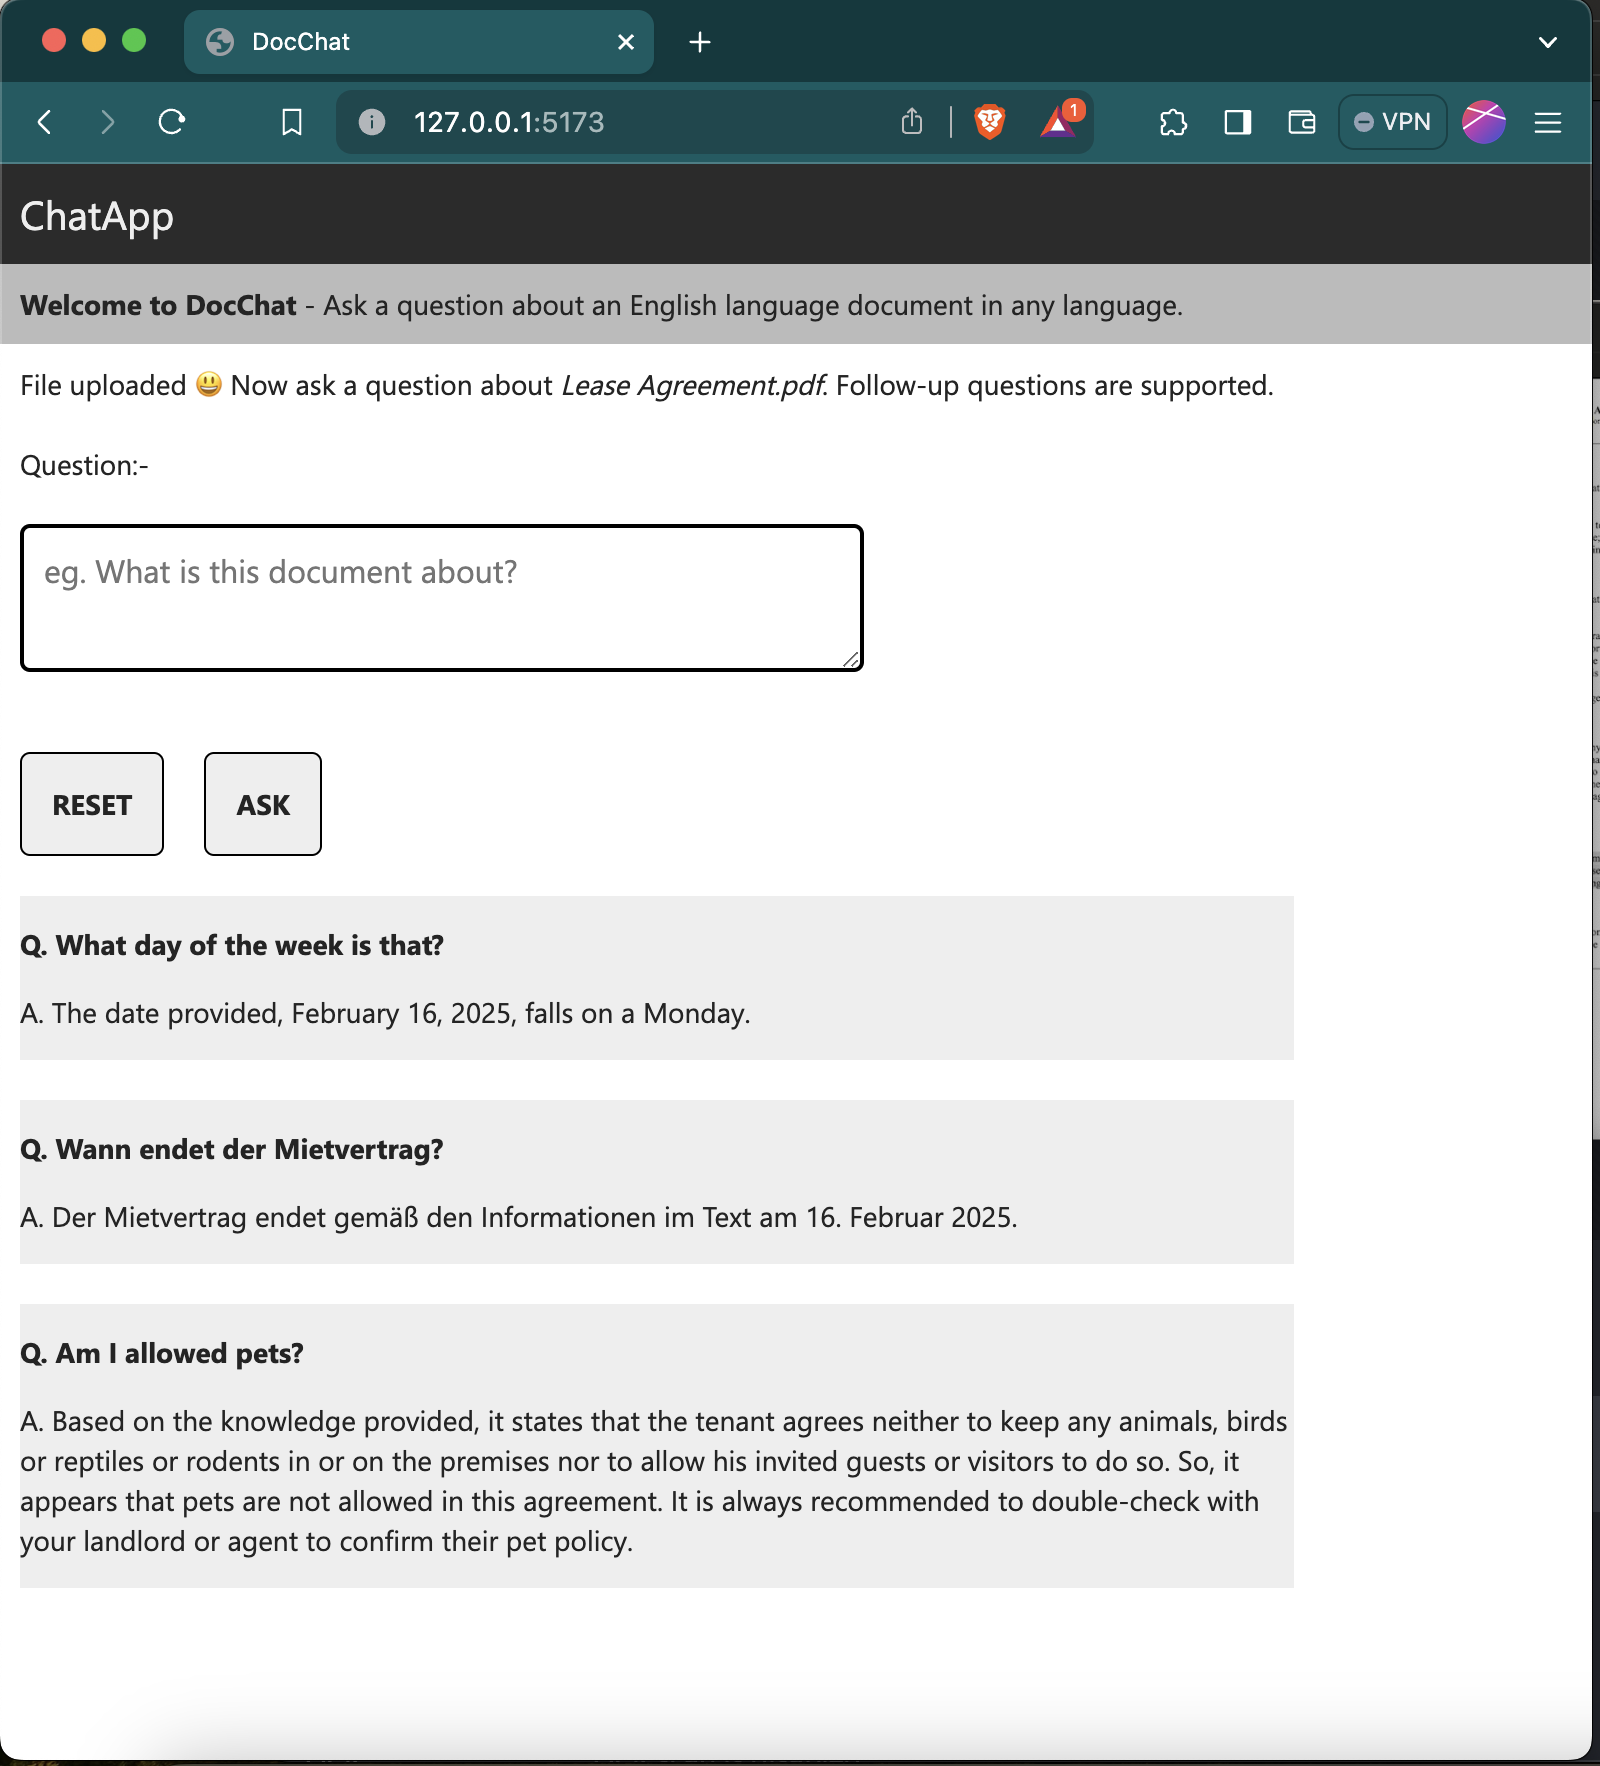
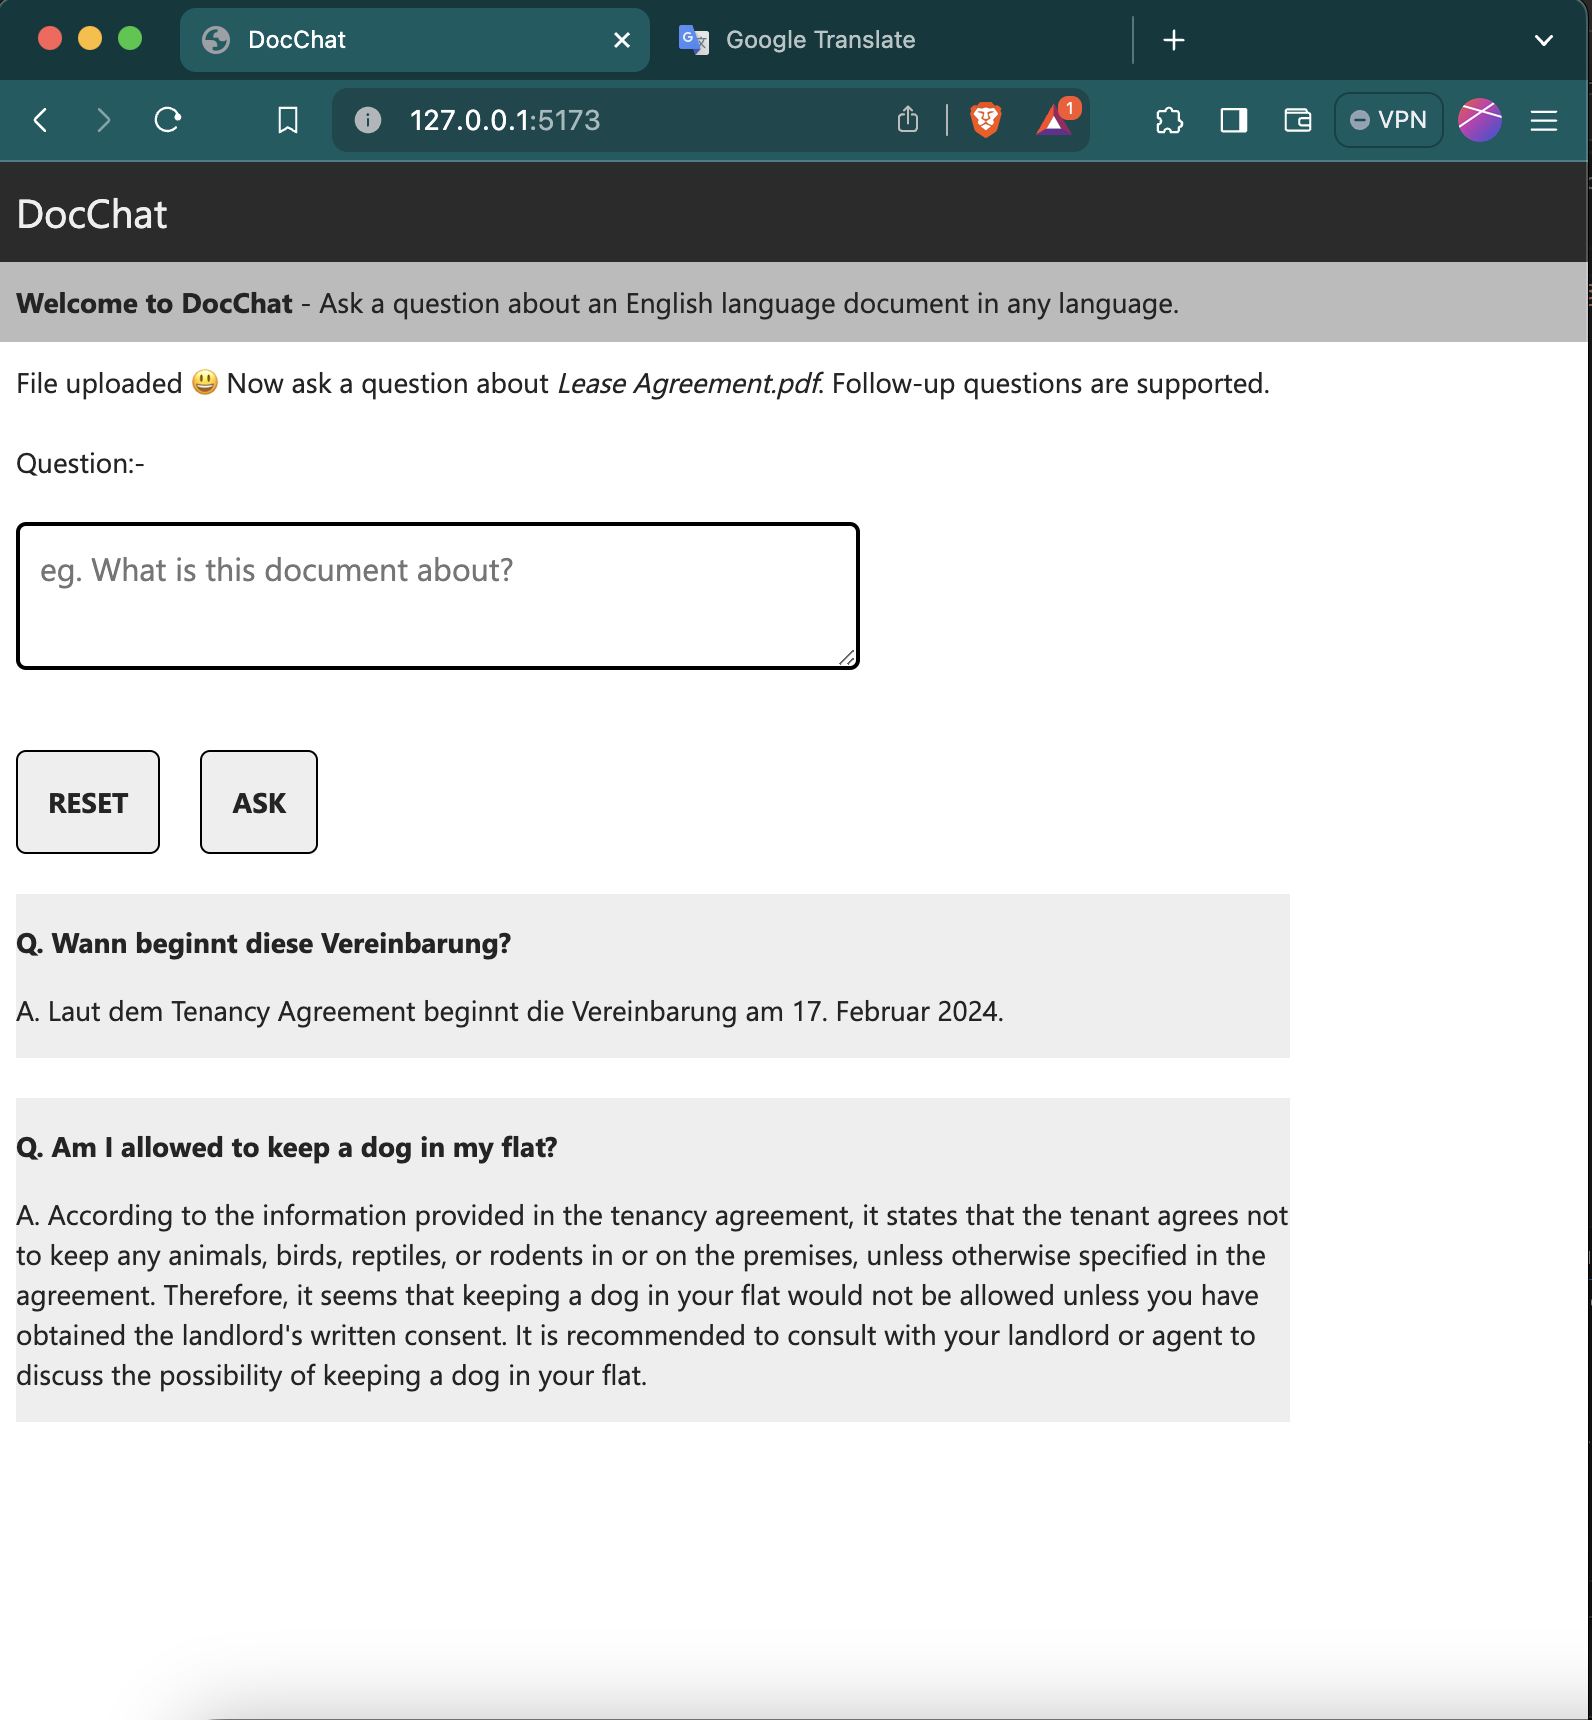
V3 - App renamed

diff --git a/Frontend/src/main-section/MainSection.tsx b/Frontend/src/main-section/MainSection.tsx
@@ -1,13 +1,15 @@
 import './MainSection.css';
 import { UploadAndChat } from './upload-and-chat/UploadAndChat';
 
+const appName: string = import.meta.env.VITE_APP_NAME;
+
 export const MainSection = () => {
 
   return (
     <>
 
      <div className="intro">
-        <b>Welcome to DocChat</b> - Ask a question about an English language document in any language.
+        <b>Welcome to { appName }</b> - Ask a question about an English language document in any language.
      </div>
 
      <UploadAndChat />

diff --git a/README.md b/README.md
@@ -78,7 +78,7 @@ An AI Search index should be set up with the following schema:-
 * In `./Frontend`, add a `.env.development` file containing the following
 
 ```
-APP_NAME=ChatApp
+APP_NAME=DocChat
 VITE_API_BASE_URL=http://127.0.0.1:3000
 ```
 
